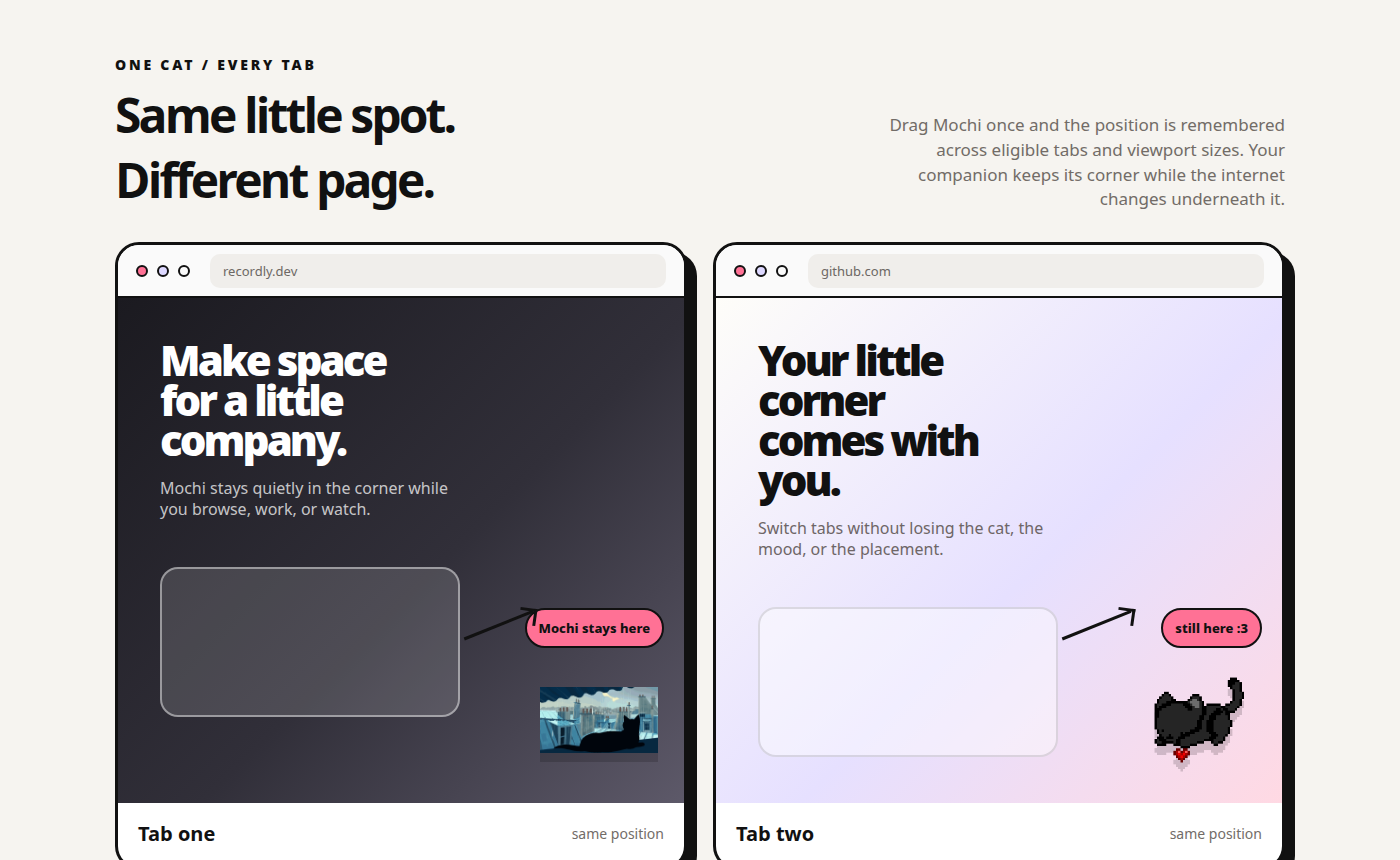
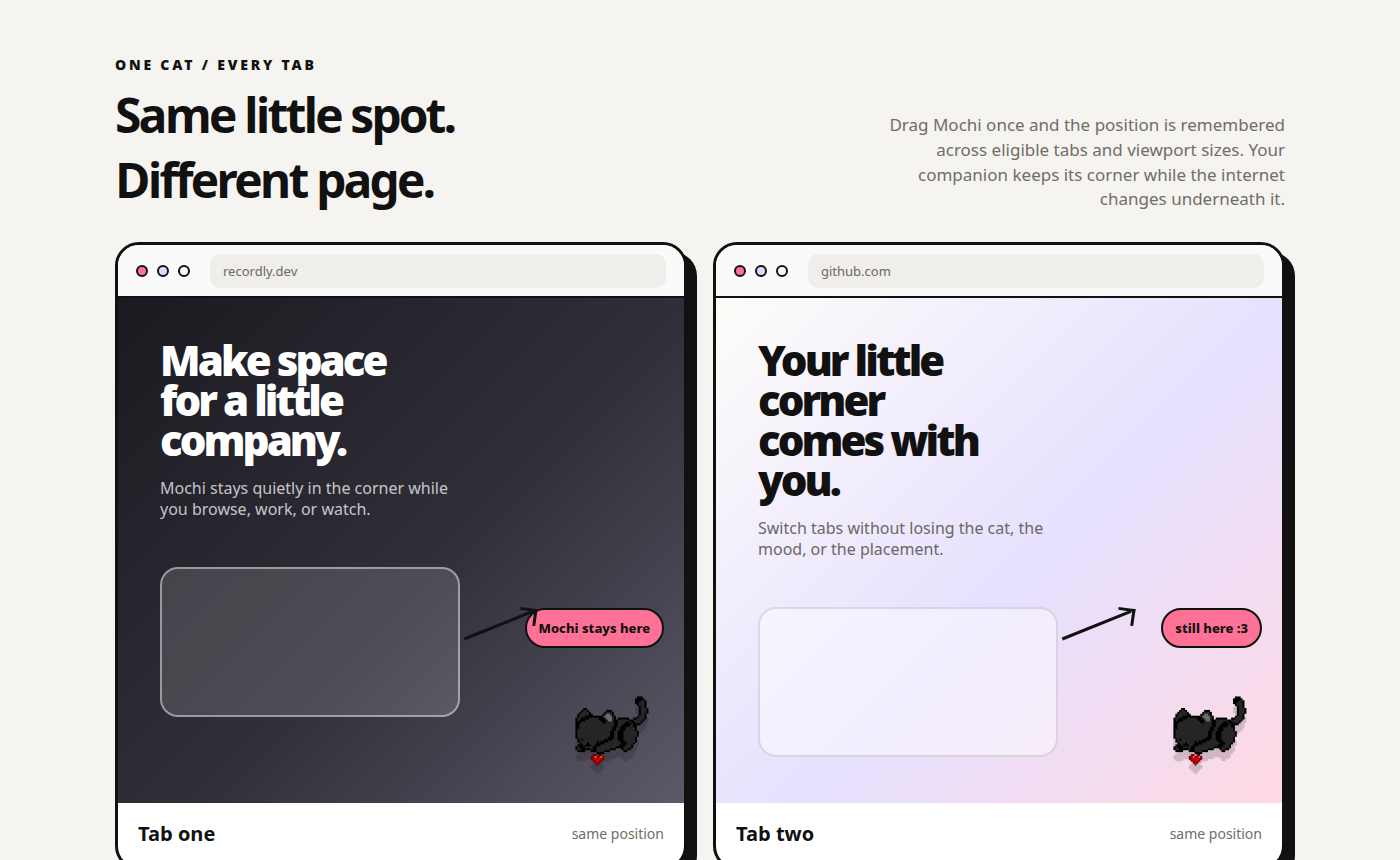
Fix position showcase cat alignment

Changed region(s): [[0.3686, 0.786, 0.4914, 0.8767], [0.7986, 0.786, 0.8907, 0.907]]

diff --git a/docs/position-showcase.html b/docs/position-showcase.html
@@ -28,7 +28,7 @@
     .light .sub { color:#6e6667; }
     .fake-card { width:300px; height:150px; margin-top:46px; border:2px solid rgba(255,255,255,.45); border-radius:18px; background:rgba(255,255,255,.14); }
     .light .fake-card { border-color:rgba(17,17,17,.12); background:rgba(255,255,255,.45); }
-    .cat { position:absolute; right:26px; bottom:24px; width:118px; height:118px; object-fit:contain; filter:drop-shadow(0 9px 0 rgba(0,0,0,.16)); }
+    .cat { position:absolute; right:26px; bottom:24px; width:96px; height:96px; aspect-ratio:1 / 1; object-fit:contain; filter:drop-shadow(0 9px 0 rgba(0,0,0,.16)); }
     .tag { position:absolute; right:20px; bottom:155px; background:var(--pink); border:2px solid var(--ink); padding:9px 12px; border-radius:999px; font-size:13px; font-weight:800; }
     .arrow { position:absolute; right:140px; bottom:133px; width:74px; height:48px; border-top:3px solid var(--ink); transform:rotate(-22deg); }
     .arrow:after { content:""; position:absolute; right:-2px; top:-7px; width:14px; height:14px; border-top:3px solid var(--ink); border-right:3px solid var(--ink); transform:rotate(30deg); }
@@ -47,7 +47,7 @@
     <section class="tabs">
       <article class="browser">
         <div class="bar"><span class="dot pink"></span><span class="dot lav"></span><span class="dot"></span><div class="url">recordly.dev</div></div>
-        <div class="screen"><div class="headline">Make space for a little company.</div><div class="sub">Mochi stays quietly in the corner while you browse, work, or watch.</div><div class="fake-card"></div><span class="tag">Mochi stays here</span><span class="arrow"></span><img class="cat" src="../assets/bad-boy.png" alt="Bad Boy cat"></div>
+        <div class="screen"><div class="headline">Make space for a little company.</div><div class="sub">Mochi stays quietly in the corner while you browse, work, or watch.</div><div class="fake-card"></div><span class="tag">Mochi stays here</span><span class="arrow"></span><img class="cat" src="../assets/black-cat.png" alt="Black Cat"></div>
         <div class="caption"><strong>Tab one</strong><span>same position</span></div>
       </article>
       <article class="browser">
